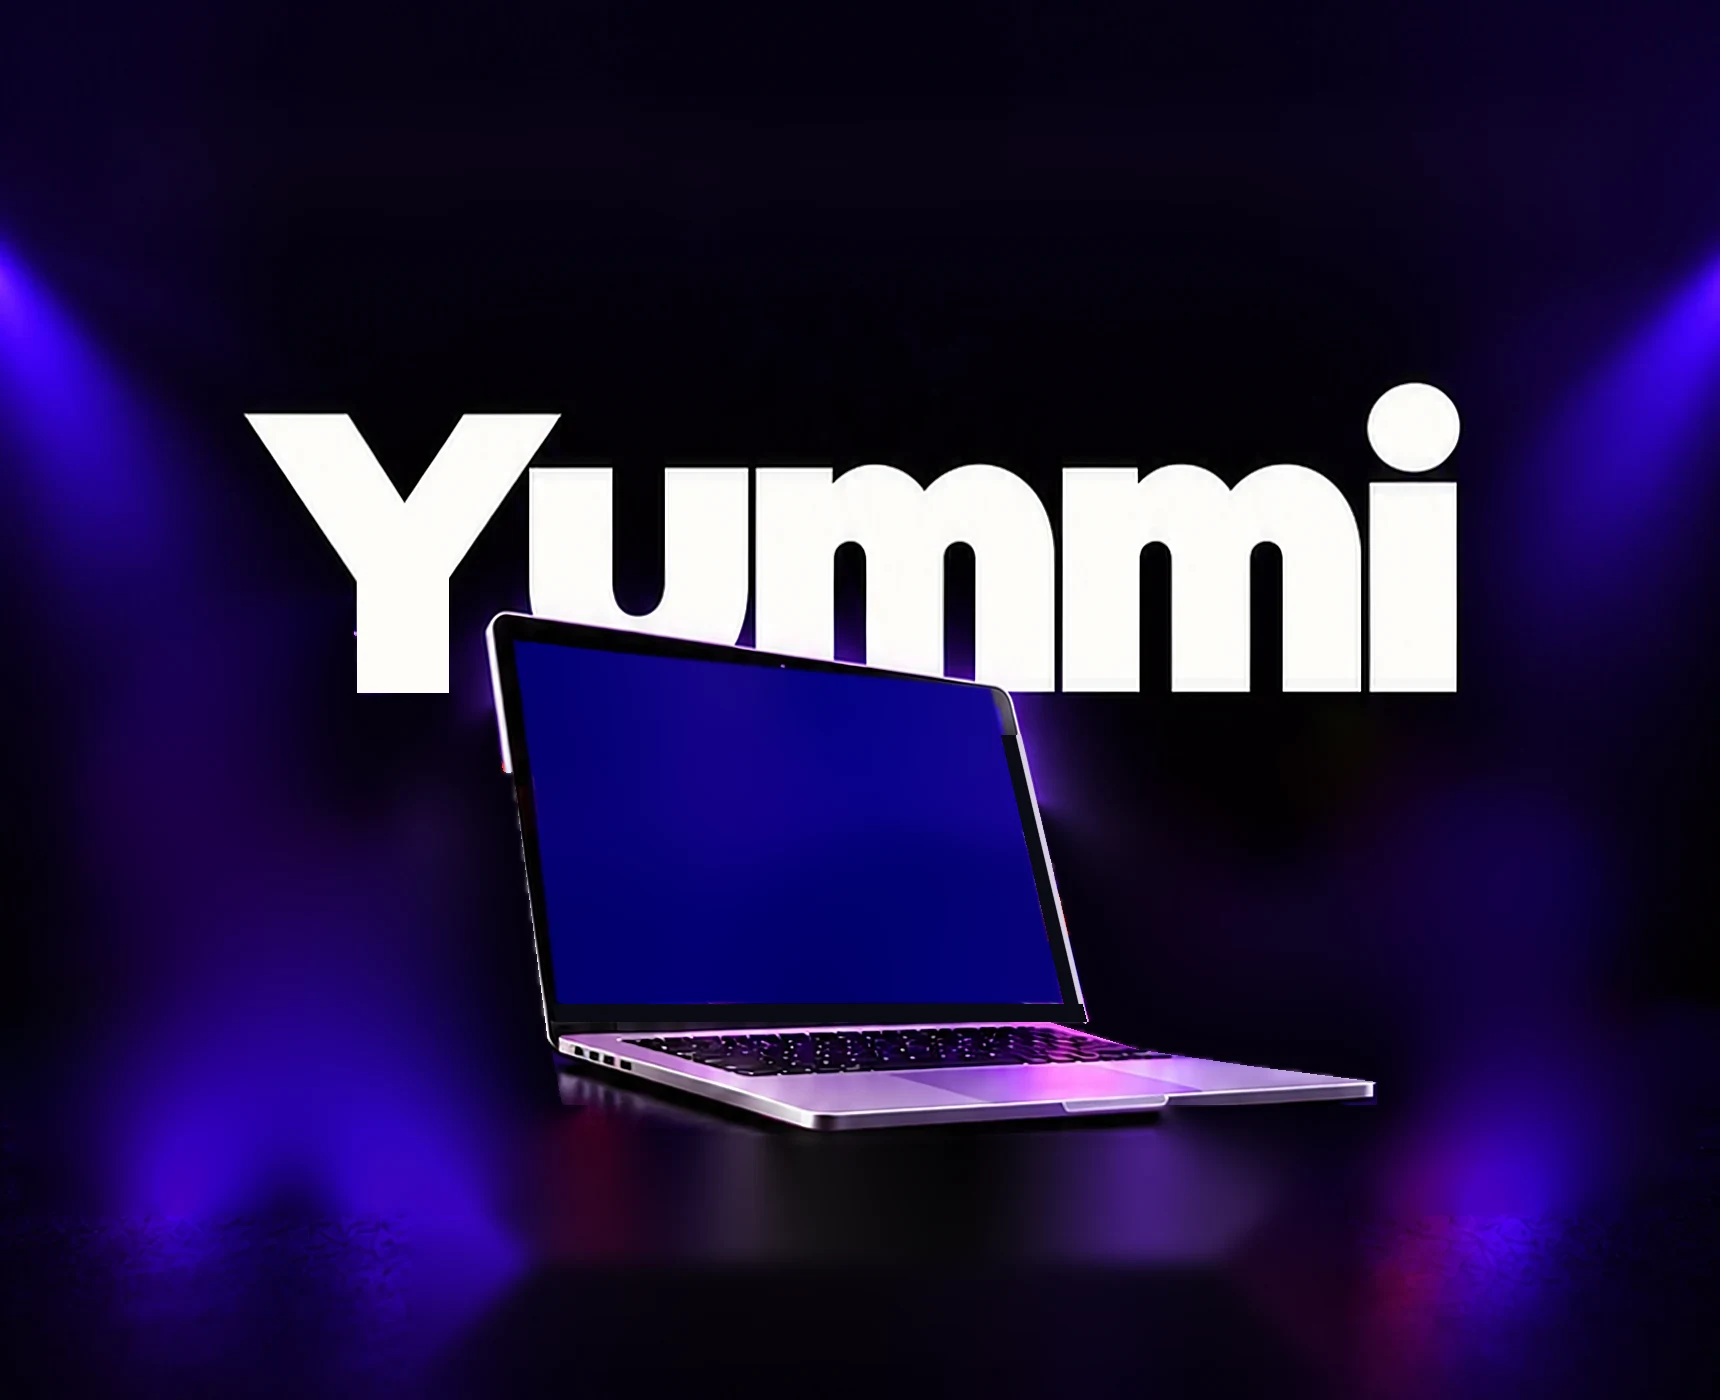
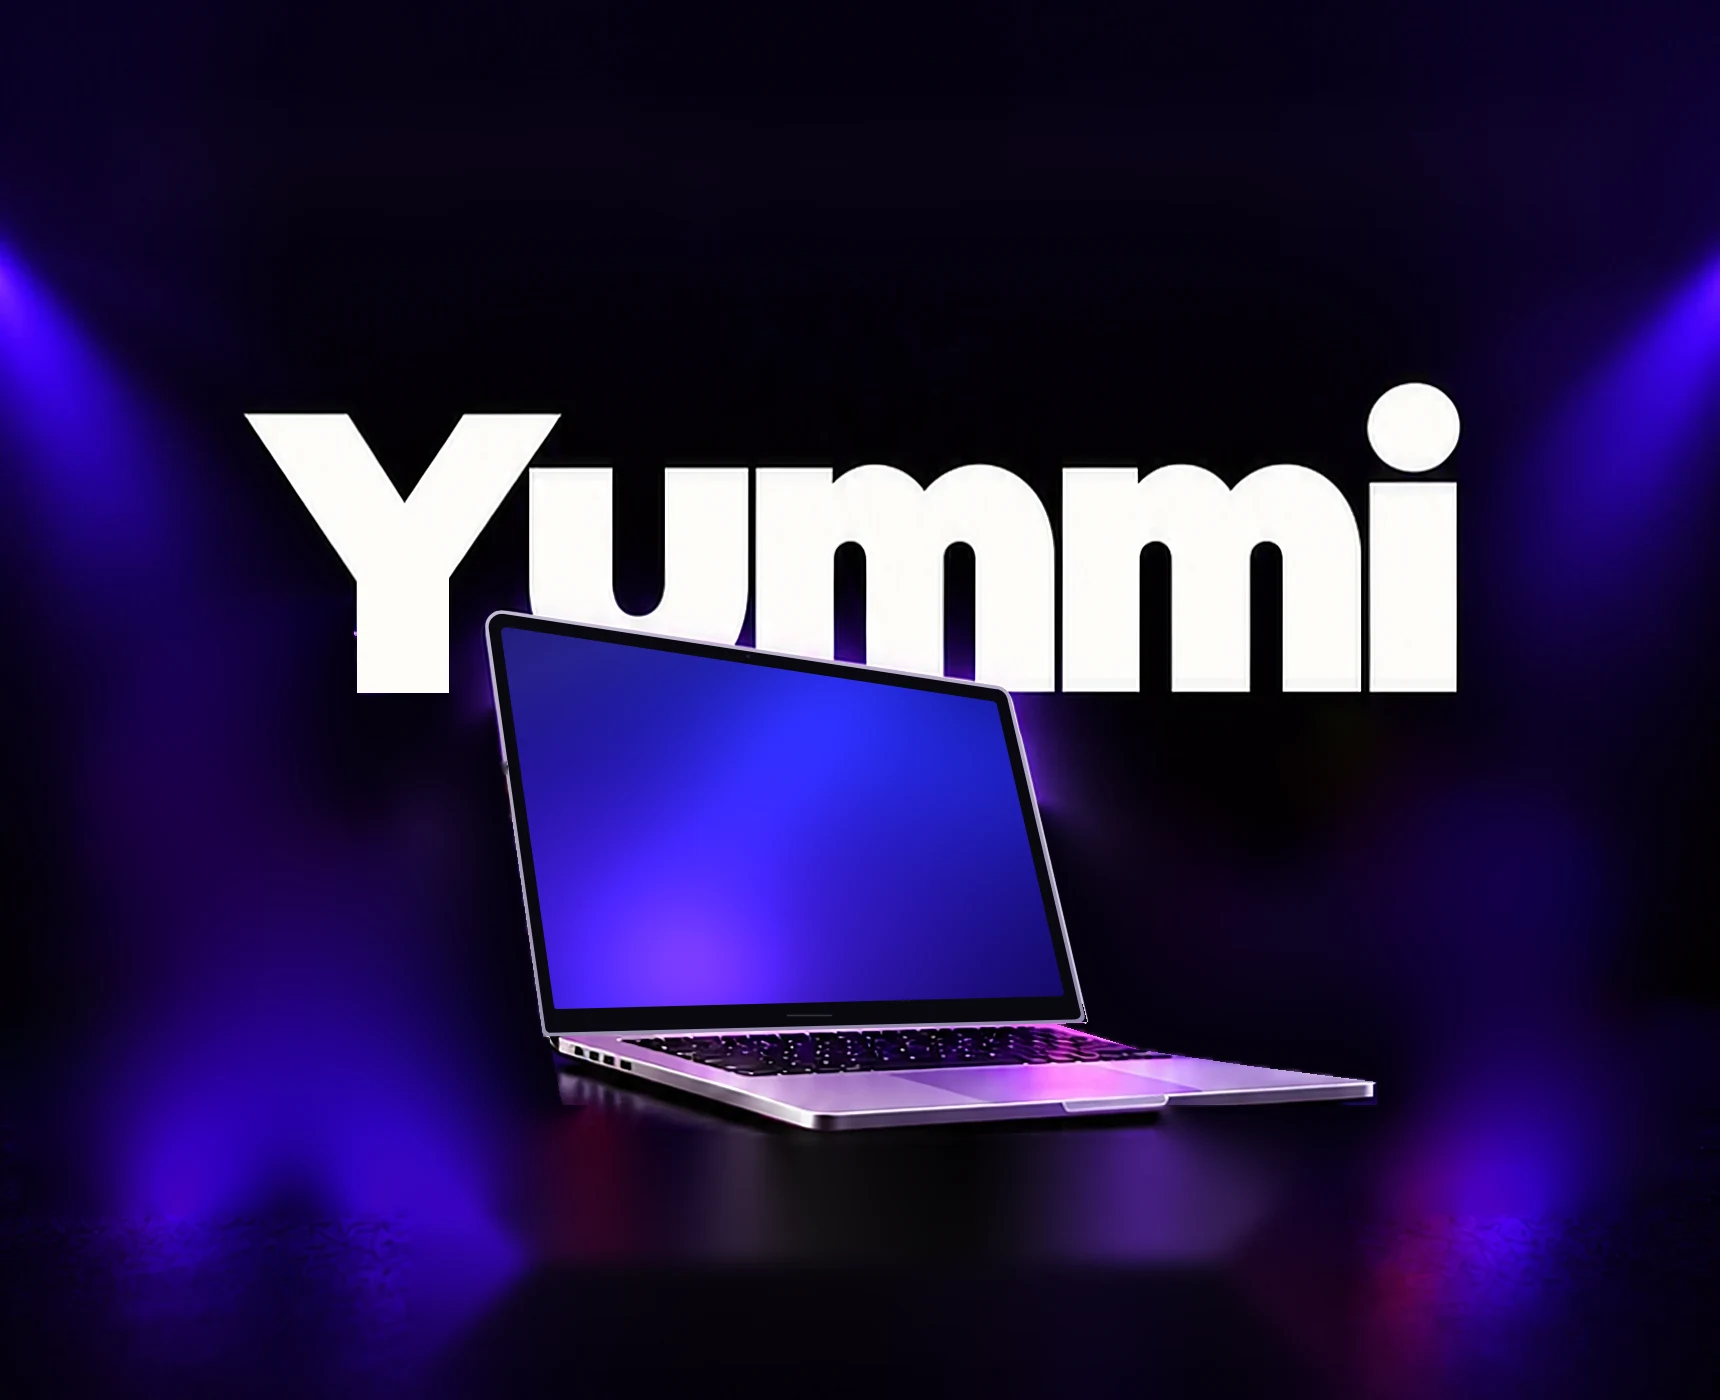
Clean synthetic laptop plate, nav layout, about text tweaks
Claude-Session: https://claude.ai/code/session_01NTP9niN9fkNMbJSChYRcYE

Changed region(s): [[0.2773, 0.43, 0.6471, 0.7371]]

diff --git a/assets/css/style.css b/assets/css/style.css
@@ -508,7 +508,7 @@ picture { display: contents; }
   .nav.is-scrolled { top: 0; }
   .nav.is-scrolled .nav__pill { height: calc(80 * var(--n)); inset: calc(10 * var(--n)) calc(80 * var(--n)) auto; background: rgba(10, 2, 32, .8); -webkit-backdrop-filter: blur(14px); backdrop-filter: blur(14px); box-shadow: 0 0 0 1px rgba(110, 50, 255, .5) inset, 0 0 18px rgba(90, 30, 255, .3); }
   .nav.is-hidden { transform: translate(-50%, -120%); }
-  .nav__logo { position: absolute; right: calc(27 * var(--n)); top: calc(11 * var(--n)); width: calc(137 * var(--n)); margin: 0; }
+  .nav__logo { position: absolute; right: calc(137 * var(--n)); top: calc(21 * var(--n)); z-index: 2; width: calc(137 * var(--n)); margin: 0; }
   .nav__links, .btn--nav { display: none; }
   .nav__burger { position: absolute; left: calc(24 * var(--n)); top: calc(22 * var(--n)); display: grid; align-content: center; gap: calc(10 * var(--n)); width: calc(36 * var(--n)); height: calc(36 * var(--n)); padding: 0; background: none; border: 0; cursor: pointer; z-index: 2; }
   .nav__burger span { display: block; height: 2px; width: 100%; background: #fff; border-radius: 2px; transition: transform .5s var(--ease), opacity .3s, width .5s var(--ease); }
@@ -555,7 +555,7 @@ picture { display: contents; }
   .about__img--d { display: none; }
   .about__img--m { display: block; -webkit-mask-image: radial-gradient(72% 75% at 50% 50%, #000 72%, transparent 100%); mask-image: radial-gradient(72% 75% at 50% 50%, #000 72%, transparent 100%); }
   .about__body { font-weight: 400; }
-  .about__sub { left: 0; right: 0; top: calc(495 * var(--n)); font-size: calc(33.6 * var(--n)); text-align: center; }
+  .about__sub { left: 0; right: 0; top: calc(495 * var(--n)); font-size: calc(22 * var(--n)); text-align: center; }
   .about__body { left: 0; right: 0; top: calc(533 * var(--n)); font-size: calc(24.5 * var(--n)); line-height: calc(30.5 * var(--n)); text-align: center; }
   .about__btn { right: calc(184 * var(--n)); top: calc(647 * var(--n)); width: calc(366 * var(--n)); height: calc(62 * var(--n)); font-size: calc(22 * var(--n)); }
   .about__btn .btn__arrow { margin-inline-start: calc(40 * var(--n)); }
@@ -676,8 +676,9 @@ picture { display: contents; }
 /* ---------- fixed type sizes (desktop): body 20px · sub-headings 40px · main headings 60px ---------- */
 @media (min-width: 1024px) {
   .hero__title, .about__title, .process__title, .work__title, .contact__title, .talk__title { font-size: 60px; line-height: 1.02; }
-  .about__sub, .step__title, .project__name { font-size: 40px; line-height: 1.1; }
-  .about__body, .step__text, .project__tag, .contact__sub, .talk__sub { font-size: 20px; line-height: 1.45; }
+  .step__title, .project__name { font-size: 40px; line-height: 1.1; }
+  .about__sub { font-size: 20px; line-height: 1.25; }
+  .about__body, .step__text, .project__tag, .contact__sub, .talk__sub { font-size: 17px; line-height: 1.5; }
 }
 
 /* soft edges now that the composition is narrower than the window (desktop) */
@@ -733,3 +734,18 @@ picture { display: contents; }
 
 /* phones: the composition already fills the window, so keep clipping sideways overflow */
 @media (max-width: 640px) { main { overflow-x: clip; } }
+
+/* ---------- desktop nav: slim menu pinned to the left corner, logo pinned to the right corner ---------- */
+@media (min-width: 1024px) {
+  .nav { left: 0; right: 0; width: auto; top: calc(26 * var(--a)); transform: none; display: flex; justify-content: flex-start; }
+  .nav.is-scrolled { top: calc(12 * var(--a)); }
+  .nav.is-hidden { transform: translateY(-160%); }
+  .nav__pill { --ph: calc(50 * var(--a)); position: static; margin-right: auto; margin-left: calc(28 * var(--a)); width: max-content;
+    padding-inline: calc(22 * var(--a)) calc(var(--ph) / 2 - 16 * var(--a)); }
+  .nav.is-scrolled .nav__pill { --ph: calc(44 * var(--a)); }
+  .nav__pill::before { display: none; }
+  .nav__logo { position: absolute; right: calc(30 * var(--a)); top: 50%; transform: translateY(-50%); width: calc(92 * var(--a)); margin: 0; }
+  .nav__links { gap: calc(30 * var(--a)); font-size: calc(12 * var(--a)); }
+  .btn--nav { margin-inline-start: calc(30 * var(--a)); height: calc(32 * var(--a)); width: calc(112 * var(--a)); padding-inline: calc(12 * var(--a)) calc(3 * var(--a)); font-size: calc(12 * var(--a)); }
+  .btn--nav .btn__circle { width: calc(26 * var(--a)); height: calc(26 * var(--a)); }
+}

diff --git a/assets/js/main.js b/assets/js/main.js
@@ -155,15 +155,14 @@
     const pr = gl.createProgram();
     gl.attachShader(pr, sh(gl.VERTEX_SHADER, "attribute vec2 a;varying vec2 v;void main(){v=a*.5+.5;gl_Position=vec4(a,0.,1.);}"));
     gl.attachShader(pr, sh(gl.FRAGMENT_SHADER, `precision mediump float;varying vec2 v;
-uniform sampler2D plate,snk,orig,tm,al,wp;uniform float p,f;
+uniform sampler2D plate,snk,orig,tm,al;uniform float p,f;
 void main(){
   vec3 T=texture2D(tm,v).rgb, A=texture2D(al,v).rgb;
   float w1=clamp((p-T.r)/.045,0.,1.)*A.r;
   float q=clamp((p-.22)/.78,0.,1.);
   float w2=clamp((q*1.04-T.g)/.03,0.,1.)*A.g;
   vec3 o=texture2D(orig,v).rgb;
-  vec3 c=mix(texture2D(plate,v).rgb,texture2D(wp,v).rgb,clamp(p/.10,0.,1.)*A.b);
-  c=mix(c,texture2D(snk,v).rgb,w1);
+  vec3 c=mix(texture2D(plate,v).rgb,texture2D(snk,v).rgb,w1);
   c=mix(c,o,w2);
   gl_FragColor=vec4(mix(c,o,f),1.);}`));
     gl.linkProgram(pr); gl.useProgram(pr);
@@ -175,8 +174,8 @@ void main(){
     const base = "assets/img/hero/";
     const h = { p: 0, f: 0, started: false };
     const draw = () => { gl.uniform1f(P, h.p); gl.uniform1f(F, h.f); gl.drawArrays(gl.TRIANGLE_STRIP, 0, 4); };
-    h.ready = Promise.all([base + "plate.webp", base + "snakes.webp", img.currentSrc || img.src, base + "times.png", base + "alpha.png", base + "screen.webp"].map(loadImg)).then(ims => {
-      ["plate", "snk", "orig", "tm", "al", "wp"].forEach((n, i) => {
+    h.ready = Promise.all([base + "plate.webp", base + "snakes.webp", img.currentSrc || img.src, base + "times.png", base + "alpha.png"].map(loadImg)).then(ims => {
+      ["plate", "snk", "orig", "tm", "al"].forEach((n, i) => {
         gl.activeTexture(gl.TEXTURE0 + i);
         const t = gl.createTexture(); gl.bindTexture(gl.TEXTURE_2D, t);
         gl.texImage2D(gl.TEXTURE_2D, 0, gl.RGB, gl.RGB, gl.UNSIGNED_BYTE, ims[i]);

diff --git a/index.html b/index.html
@@ -31,10 +31,10 @@
 
   <!-- ============ HEADER ============ -->
   <header class="nav" id="nav">
+    <a class="nav__logo" href="#top" aria-label="Yummi – לראש העמוד">
+      <img src="assets/img/logo.png" alt="Yummi עיצוב ובניית אתרים" width="700" height="255">
+    </a>
     <div class="nav__pill">
-      <a class="nav__logo" href="#top" aria-label="Yummi – לראש העמוד">
-        <img src="assets/img/logo.png" alt="Yummi עיצוב ובניית אתרים" width="700" height="255">
-      </a>
       <nav class="nav__links" aria-label="ניווט ראשי">
         <a href="#process" data-spy="process">מה אני עושה</a>
         <a href="#about" data-spy="about">מי זאת אני</a>
@@ -103,7 +103,7 @@
       <div class="about__text">
         <div class="script about__script" data-script="About me" data-fs="55" data-reveal aria-hidden="true"></div>
         <h2 class="about__title" data-reveal>היי<i class="bang">!</i> אני יאמי<i class="dot dot--lime">.</i></h2>
-        <p class="about__sub lime" data-reveal>יאמי זה השם האמיתי שלי <span class="smile">:)</span></p>
+        <p class="about__sub lime" data-reveal>כן כן,<br>יאמי זה השם האמיתי שלי <span class="smile">:)</span></p>
         <p class="about__body" data-reveal>
           בין קפה אחד לשני אני גם עובדת:<br>
           מאפיינת, מעצבת ובונה אתרים.<br>
